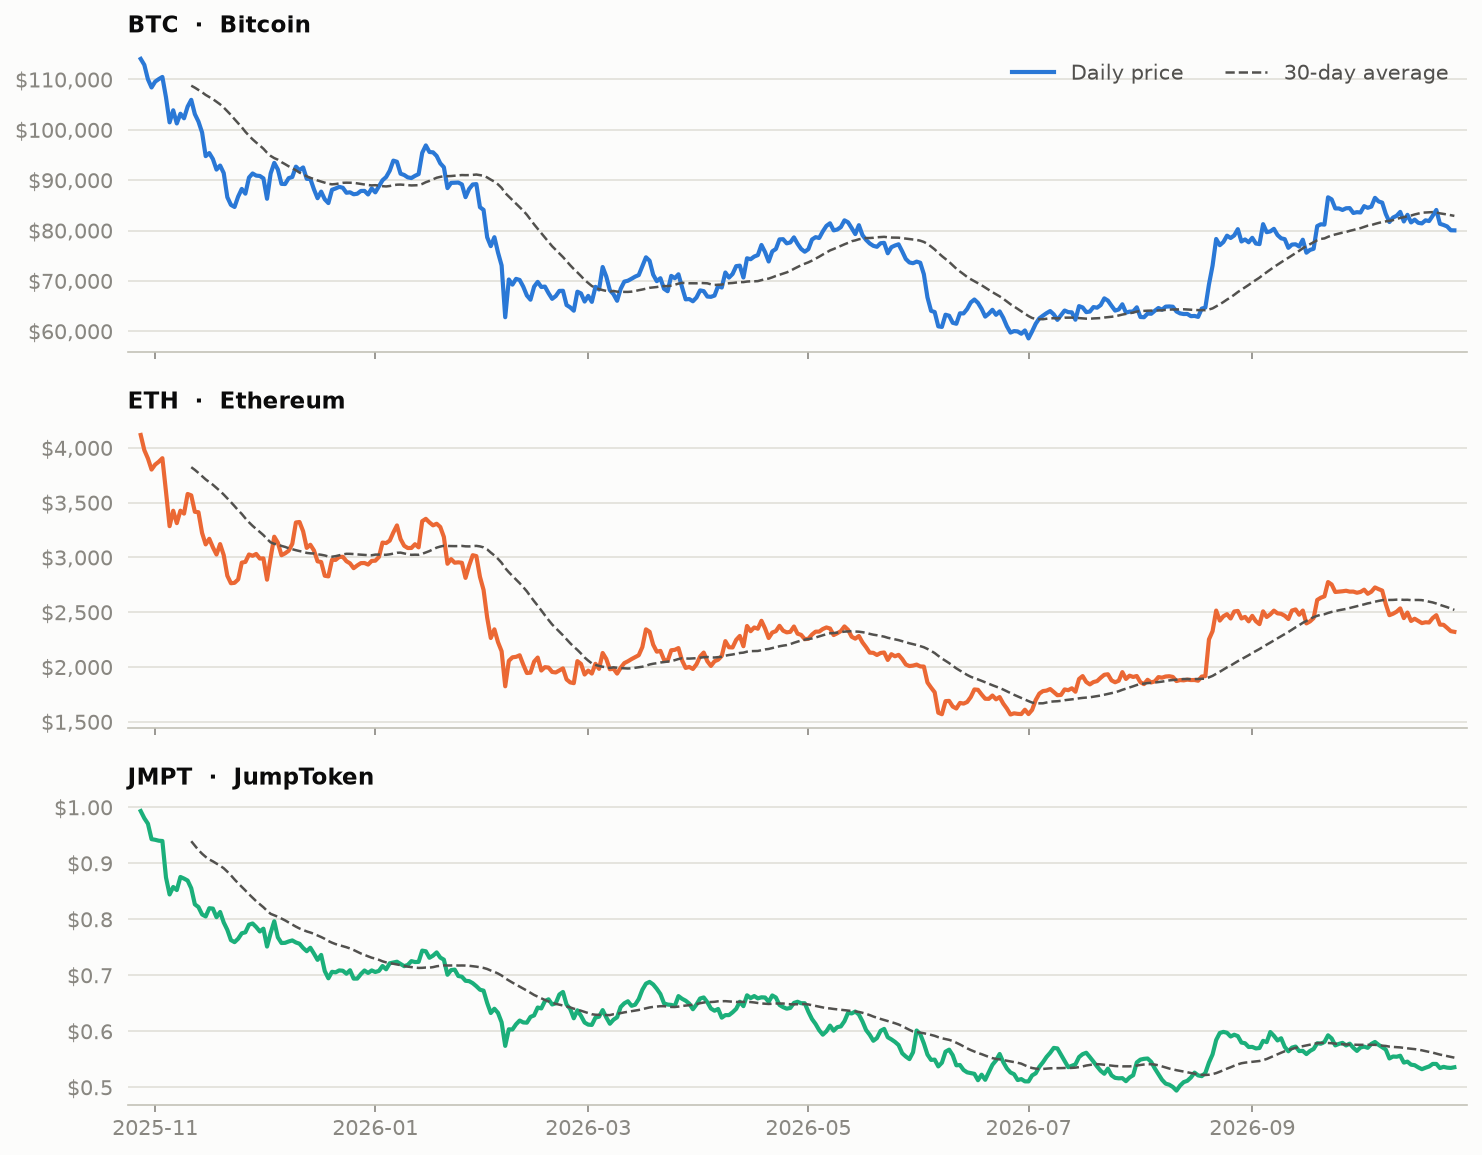
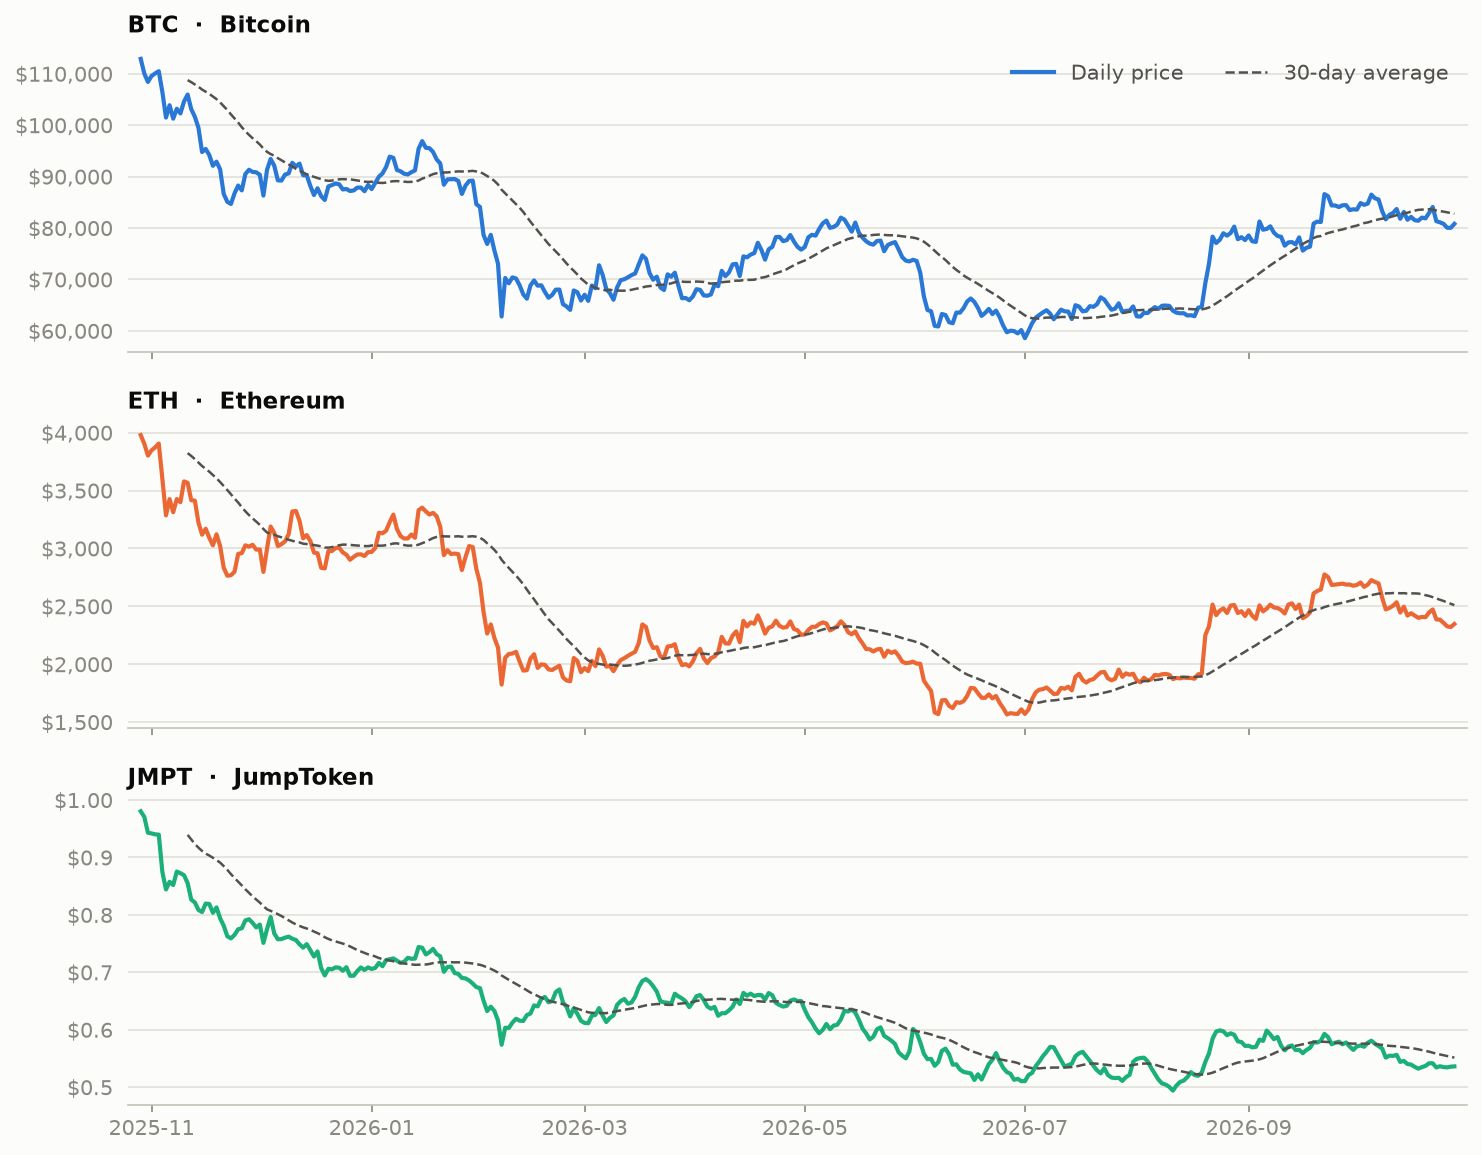
data: market update 2026-10-28

diff --git a/README.md b/README.md
@@ -9,13 +9,13 @@ The project compares two of the largest cryptocurrencies with a small-cap token:
 ## Latest stats
 
 <!-- STATS:START -->
-_Snapshot as of **2026-10-27 00:00 UTC**. Updated automatically every day._
+_Snapshot as of **2026-10-28 00:00 UTC**. Updated automatically every day._
 
 | Coin | Price | 1 day | 7 days | 30 days | 1 year | Volatility (30d) | Market cap |
 |:--|--:|--:|--:|--:|--:|--:|--:|
-| **BTC** Bitcoin | $80,029 | ▼ -0.0% | ▼ -2.3% | ▼ -5.2% | ▼ -30.1% | 25% | $1.61T |
-| **ETH** Ethereum | $2,321 | ▼ -0.3% | ▼ -3.5% | ▼ -13.9% | ▼ -44.2% | 33% | $283.50B |
-| **JMPT** JumpToken | $0.5357 | ▲ +0.2% | ▼ -0.3% | ▼ -6.8% | ▼ -45.0% | 18% | $7.91M |
+| **BTC** Bitcoin | $80,801 | ▲ +1.0% | ▼ -2.6% | ▼ -4.3% | ▼ -29.2% | 25% | $1.62T |
+| **ETH** Ethereum | $2,347 | ▲ +1.1% | ▼ -4.1% | ▼ -12.7% | ▼ -43.0% | 34% | $286.77B |
+| **JMPT** JumpToken | $0.5361 | ▲ +0.1% | ▼ -1.0% | ▼ -7.2% | ▼ -46.0% | 18% | $7.91M |
 <!-- STATS:END -->
 
 ## Charts
